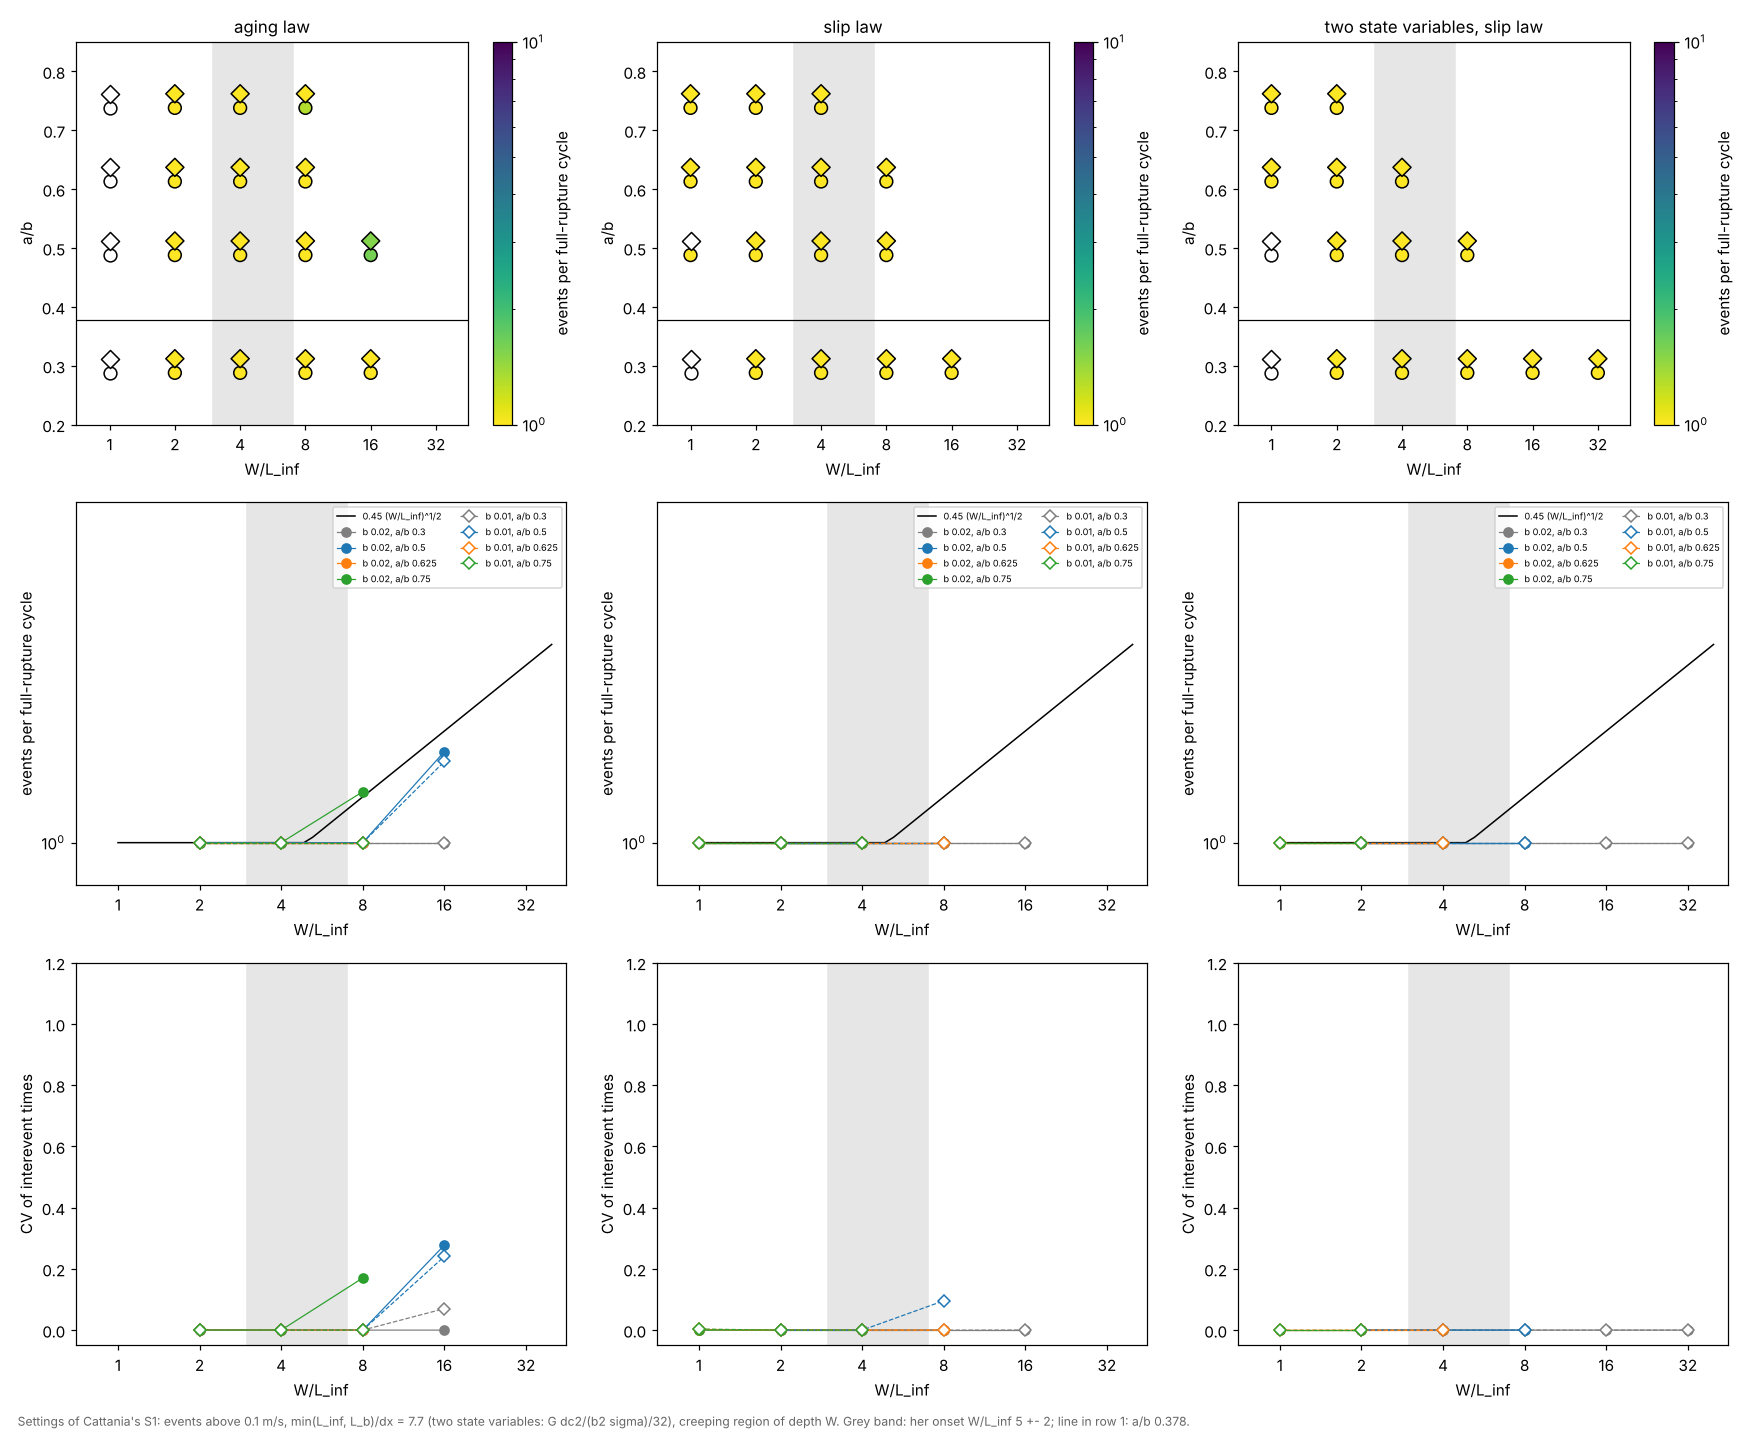
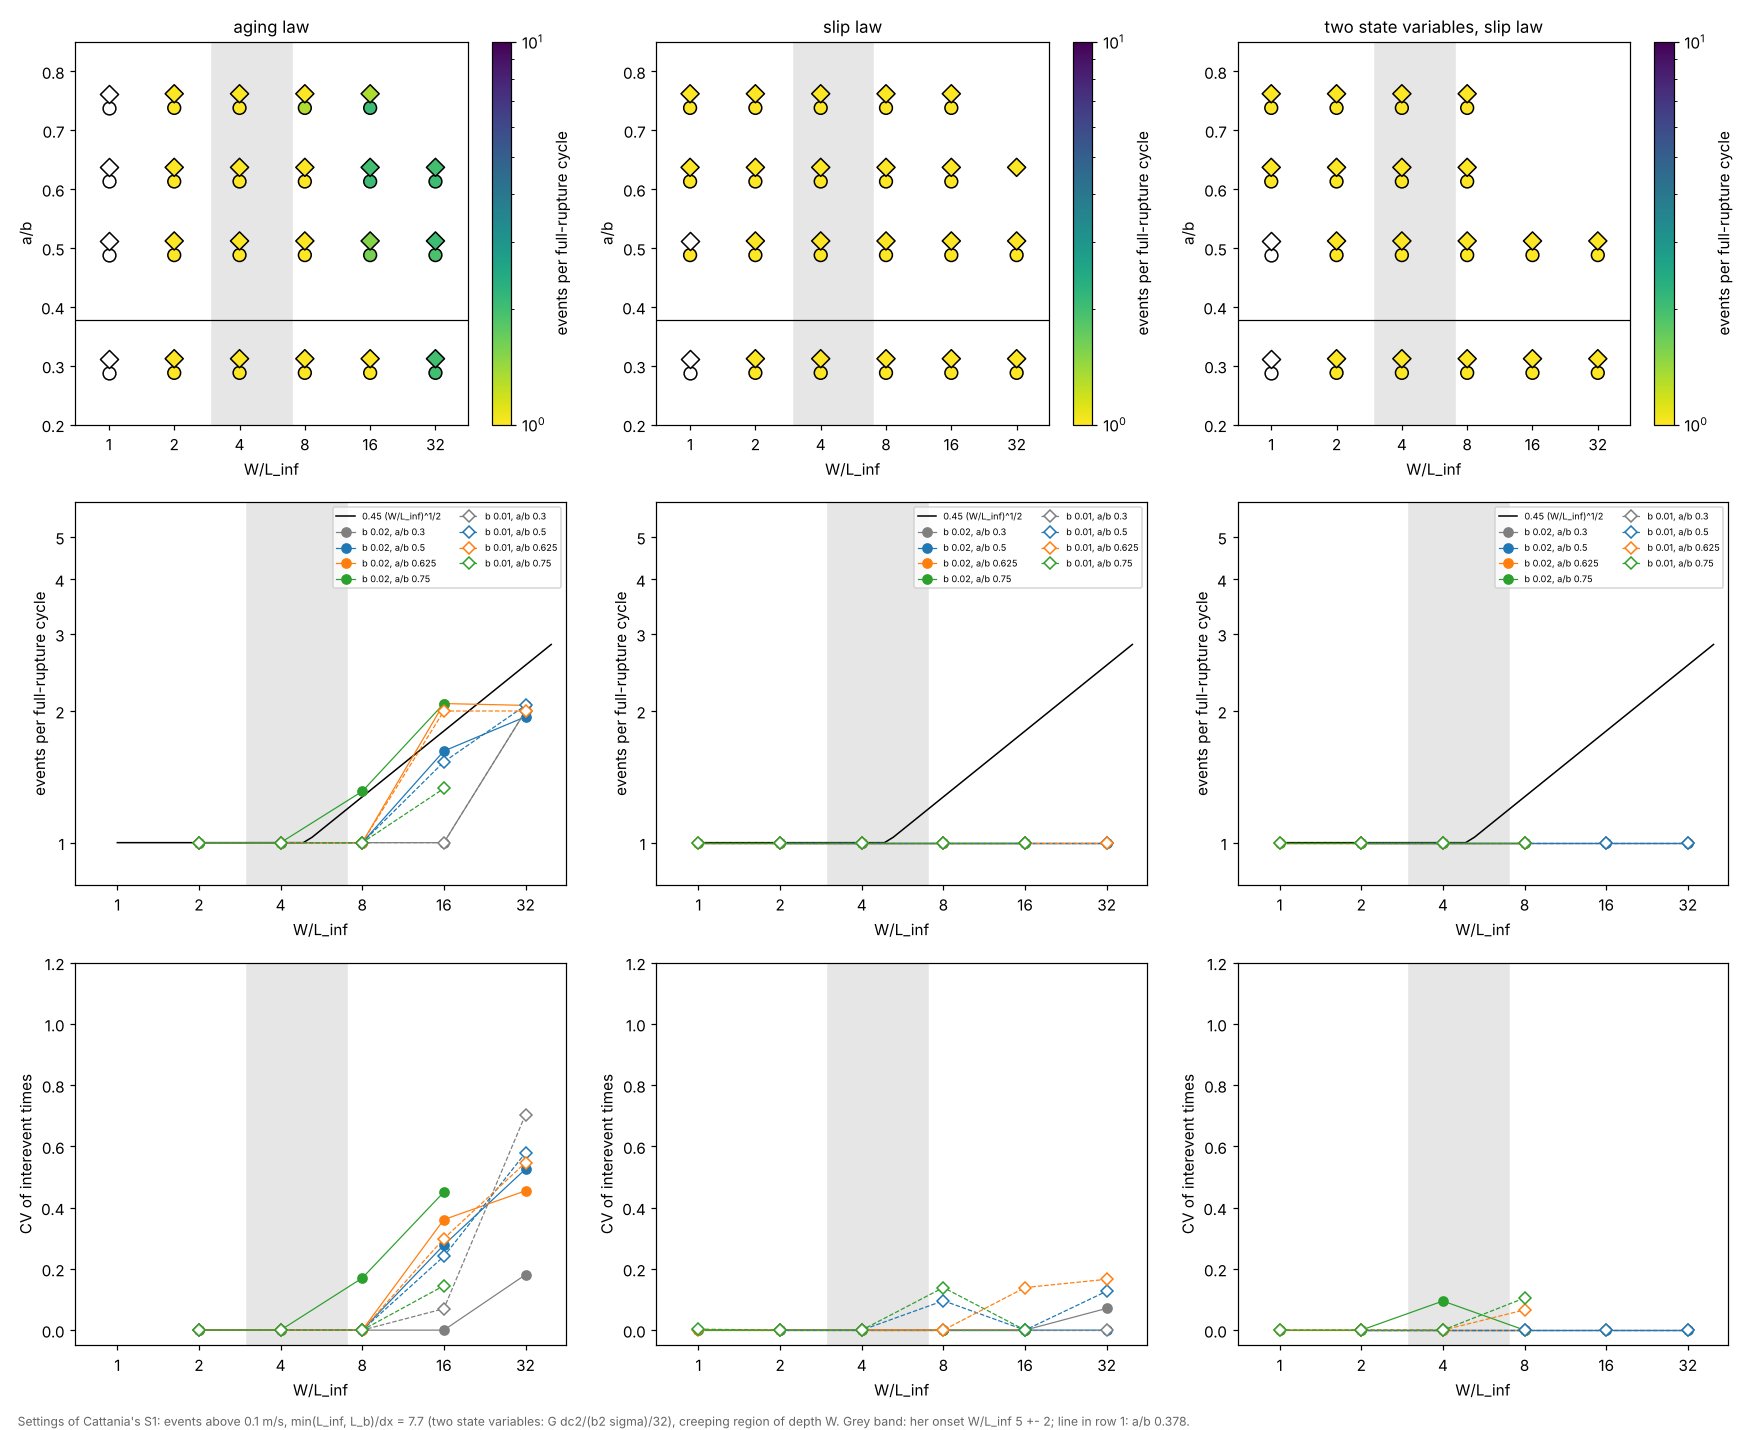
updated

diff --git a/strike_slip_networks/antiplane_2d/plot_cattania_si.py b/strike_slip_networks/antiplane_2d/plot_cattania_si.py
@@ -1,6 +1,6 @@
 #!/usr/bin/env python3
 """
-plot_cattania_si.py [rundir]: the runs of run_cattania_si.py (Cattania
+plot_cattania_si.py [rundir | table.txt]: the runs of run_cattania_si.py (Cattania
 setup with her S1 settings, b 0.02 and 0.01, aging, slip and two-state
 slip laws), one column per law:
 
@@ -12,7 +12,9 @@ slip laws), one column per law:
   row 3  CV of the interevent times against W/L_inf (her Figure 4b)
 
 Events as in plot_antiplane.py (merged within one hour, first quarter
-discarded). Writes cattania_si.png and cattania_si.txt.
+discarded). Writes cattania_si.png and cattania_si.txt in rundir; given
+a cattania_si.txt written earlier instead, it redraws cattania_si.png
+from that table (in the directory of the table).
 """
 import glob
 import os
@@ -34,6 +36,12 @@ ABCOL = {0.3: "C7", 0.5: "C0", 0.625: "C1", 0.75: "C2"}
 def main():
     rd = sys.argv[1] if len(sys.argv) > 1 else "."
     res = {}
+    if rd.endswith(".txt"):
+        for line in open(rd).readlines()[1:]:
+            w = line.split()
+            res[(w[0], float(w[1]), float(w[2]), float(w[3]))] = dict(n=int(w[4]), nfull=int(w[5]),
+                                                                     alpha=float(w[6]), cv=float(w[7]))
+        rd = os.path.dirname(os.path.abspath(rd))
     for d in sorted(glob.glob(os.path.join(rd, "si_*_b*_ab*_X*"))):
         try:
             ll = open(os.path.join(d, "rsf_solve.log")).read().splitlines()
@@ -93,6 +101,9 @@ def main():
                 ax[2, j].plot([k[3] for k in kk], [res[k]["cv"] for k in kk], **kw)
         ax[1, j].set_yscale("log")
         ax[1, j].set_ylim(0.8, 6)
+        ax[1, j].set_yticks([1, 2, 3, 4, 5])
+        ax[1, j].set_yticklabels(["1", "2", "3", "4", "5"])
+        ax[1, j].minorticks_off()
         ax[1, j].set_ylabel("events per full-rupture cycle")
         ax[2, j].set_ylabel("CV of interevent times")
         ax[2, j].set_ylim(-0.05, 1.2)

diff --git a/strike_slip_networks/antiplane_2d/README.md b/strike_slip_networks/antiplane_2d/README.md
@@ -565,15 +565,39 @@ so a full rupture is now at least 0.9 W or 0.9 times the longest event
 of the run if none reaches W (plot_antiplane.stats); results of runs
 whose longest events exceed W are unchanged.
 
-First results (2026-11-17, 98 of the runs up to 1300 cells, mostly
-W/L_inf <= 16; the larger runs were not finished in this session):
+Results (2026-11-17, all 130 runs up to 1300 cells, run on a separate
+machine; W/L_inf up to 32 except a/b 0.75 with the aging and slip laws
+and a/b 0.625 and 0.75 with two state variables, which exceed 1300 cells
+at the largest W/L_inf):
 
-- W/L_inf = 1: no catalog events with the aging law at any a/b and b, as
-  in her Figure 2a; the slip law and two state variables already give
-  periodic seismic events there for a/b >= 0.625, i.e. the slip laws make
-  small faults seismic at smaller W/L_inf, as in the Wu & Chen setup.
-- Partial ruptures with the aging law: b = 0.02, a/b 0.5 at W/L_inf 16
-  (1.62 events per cycle) and a/b 0.75 at 8 (1.31); b = 0.01, a/b 0.5 at
-  16 (1.53); with b = 0.01, a/b 0.75 there are none at W/L_inf 8.
-- Slip law and two state variables: no partial ruptures in the runs
-  completed so far.
+W/L_inf interval in which partial ruptures begin (between neighbouring
+grid points; "none" up to the largest W/L_inf run):
+
+| a/b | aging, b 0.02 | aging, b 0.01 | slip, b 0.02 / 0.01 | two-state, b 0.02 / 0.01 |
+|---|---|---|---|---|
+| 0.3 | 16 to 32 | 16 to 32 | none to 32 / 32 | none to 32 / 32 |
+| 0.5 | 8 to 16 | 8 to 16 | none to 32 / 32 | none to 32 / 32 |
+| 0.625 | 8 to 16 | 8 to 16 | none to 16 / 32 | none to 8 / 8 |
+| 0.75 | 4 to 8 | 8 to 16 | none to 16 / 16 | none to 8 / 8 |
+
+- Aging law: no events at W/L_inf 1 for any a/b and b (as in her Figure
+  2a), periodic full ruptures from W/L_inf 2, and about 2 events per
+  full-rupture cycle at W/L_inf 32 for all a/b and both b (1.94 to 2.06),
+  inside the range of her simulations (her Figure 2b has 2 events per
+  cycle from about 8 to 100). The onset of partial ruptures moves to
+  larger W/L_inf as a/b decreases (4 to 8 at a/b 0.75, b 0.02, to 16 to
+  32 at a/b 0.3); b changes it only at a/b 0.75 (8 to 16 with b 0.01).
+  CV at W/L_inf 32 is 0.18 to 0.70.
+- Slip law: no partial ruptures in any of the 45 runs, up to W/L_inf 32;
+  seismic events already at W/L_inf 1 for a/b >= 0.5 (b 0.02) and >=
+  0.625 (b 0.01), where the aging law has none; CV up to 0.17, from
+  irregular timing of full ruptures.
+- Two state variables (slip law): no partial ruptures in any of the 40
+  runs, up to W/L_inf 32 at a/b 0.3 and 0.5 and 8 at 0.625 and 0.75;
+  seismic at W/L_inf 1 for a/b >= 0.625; CV up to 0.11.
+
+With everything else as in Cattania's S1, the slip laws (one or two
+state variables) therefore shift the onset of seismic events to smaller
+W/L_inf and remove partial ruptures over the whole range tested, which
+for the aging law covers the onset of partial ruptures at every a/b and
+b.
